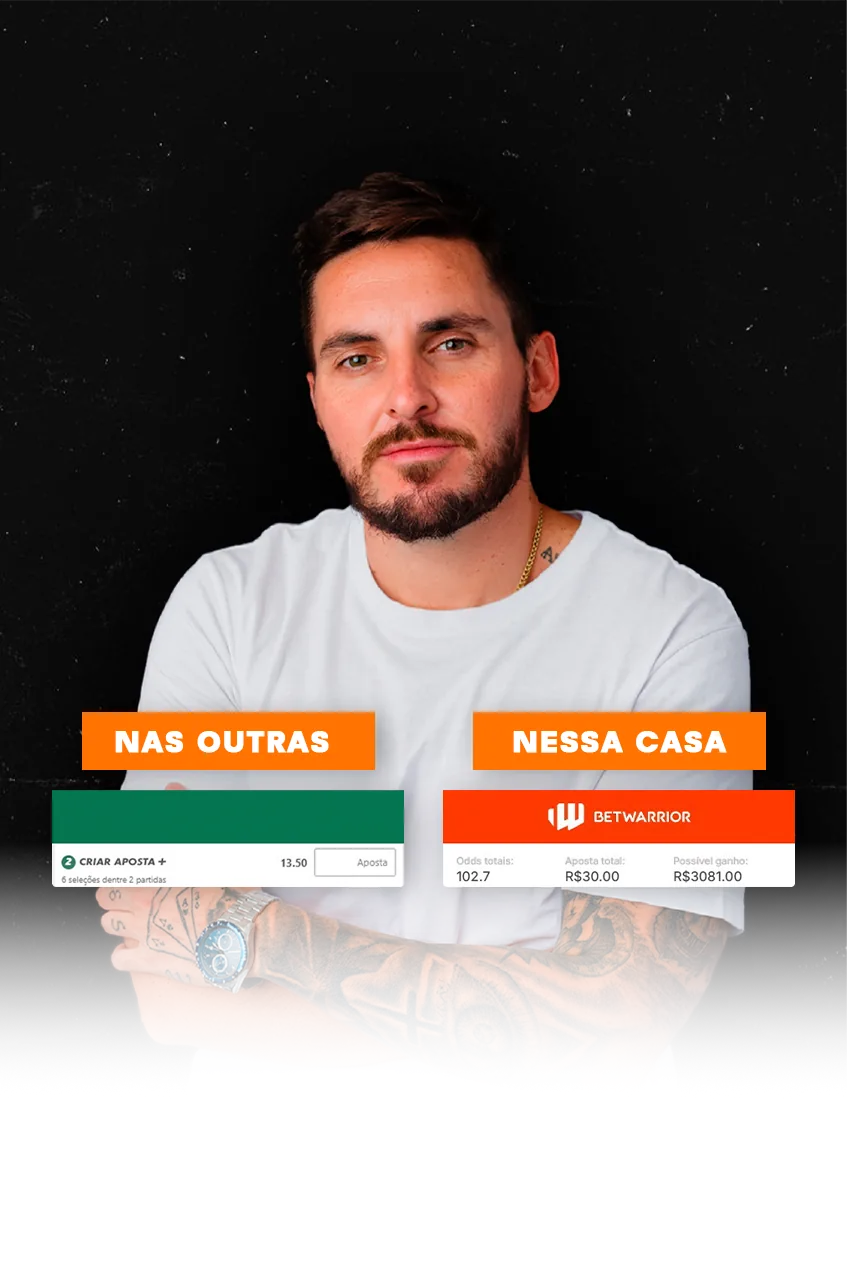
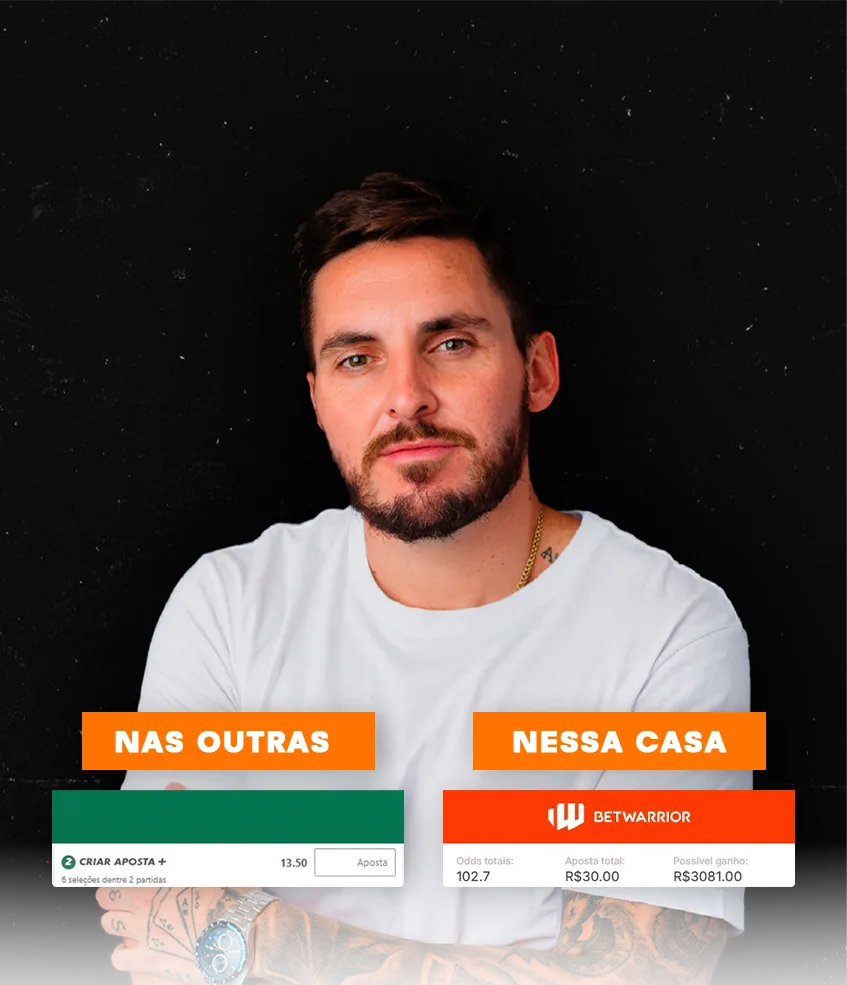
Corta a faixa branca da arte e para de cortar o bilhete
O corte anterior travava a caixa em 1.08x a largura, o que deixava o
cartao do bilhete colado na borda de baixo — parecia cortado. Medi a
arte por cor em vez de chutar: as tarjas laranjas e os cartoes
terminam em 69% da altura, e a faixa branca do rodape comeca em 85%.

- arquivo cortado de 847x1272 pra 847x985: sai a faixa branca (que
  brigava com o fundo escuro) e sobra respiro abaixo do bilhete
- caixa volta a ser elastica, sem altura travada, com contain: nada
  e cortado em nenhuma tela
- sem ancoragem no pe, entao sumiu o vao de 140px que tinha ficado
  acima da arte

Medido: em 375x812 e 393x760 a arte preenche a largura inteira, com
sobra vertical escura de 45-56px. Em 430x650 (tela baixa) sobra 20px
de cada lado. Bilhete inteiro em todas.

diff --git a/index.html b/index.html
@@ -54,7 +54,7 @@
       position:relative;                   /* âncora da arte de fundo */
       height:100svh; height:100dvh;
       max-width:460px;margin:0 auto;
-      display:flex;flex-direction:column;justify-content:flex-end;
+      display:flex;flex-direction:column;
       padding:0 16px calc(max(env(safe-area-inset-bottom),8px));
     }
 
@@ -88,12 +88,7 @@
        ao texto, entao o texto nunca sobe por cima dela. Sem veu e sem
        glow — a arte aparece como ela e. */
     .art{
-      /* Altura travada em 1.08x a largura: e onde o bilhete termina na
-         arte. Sem isso a caixa cresce e entra a faixa escura que sobra
-         abaixo do bilhete, empurrando o texto pra baixo. */
-      flex:0 1 auto;
-      height:calc((min(100vw,460px) - 32px) * 1.08);
-      min-height:84px;
+      flex:1 1 auto;min-height:84px;
       position:relative;display:flex;
       border-radius:14px;overflow:hidden;
     }
@@ -288,7 +283,7 @@
     </div>
 
     <div class="art" id="art">
-      <img id="art-img" src="assets/arte-30.webp" width="847" height="1272" alt="" fetchpriority="high" decoding="async" />
+      <img id="art-img" src="assets/arte-30.webp" width="847" height="985" alt="" fetchpriority="high" decoding="async" />
       <span class="glow"></span>
     </div>
 

diff --git a/config.js b/config.js
@@ -13,11 +13,11 @@ window.LP_CONFIG = {
 
   // 'contain' = arte inteira sempre visível (recomendado, os bilhetes não cortam)
   // 'cover'   = arte preenche a caixa toda, mas corta as bordas
-  arteAjuste: 'cover',
+  arteAjuste: 'contain',
 
   // Enquadramento vertical da arte de fundo. Menor puxa a imagem pra
   // cima, maior puxa pra baixo. Ex: '30%', '42%', '55%'.
-  arteFoco: '0%',
+  arteFoco: '50%',
 
   // Quanto puxar a arte pra cima, em % da altura da tela. Sobe os
   // bilhetes pra eles nao ficarem atras da headline. 0 desliga.
